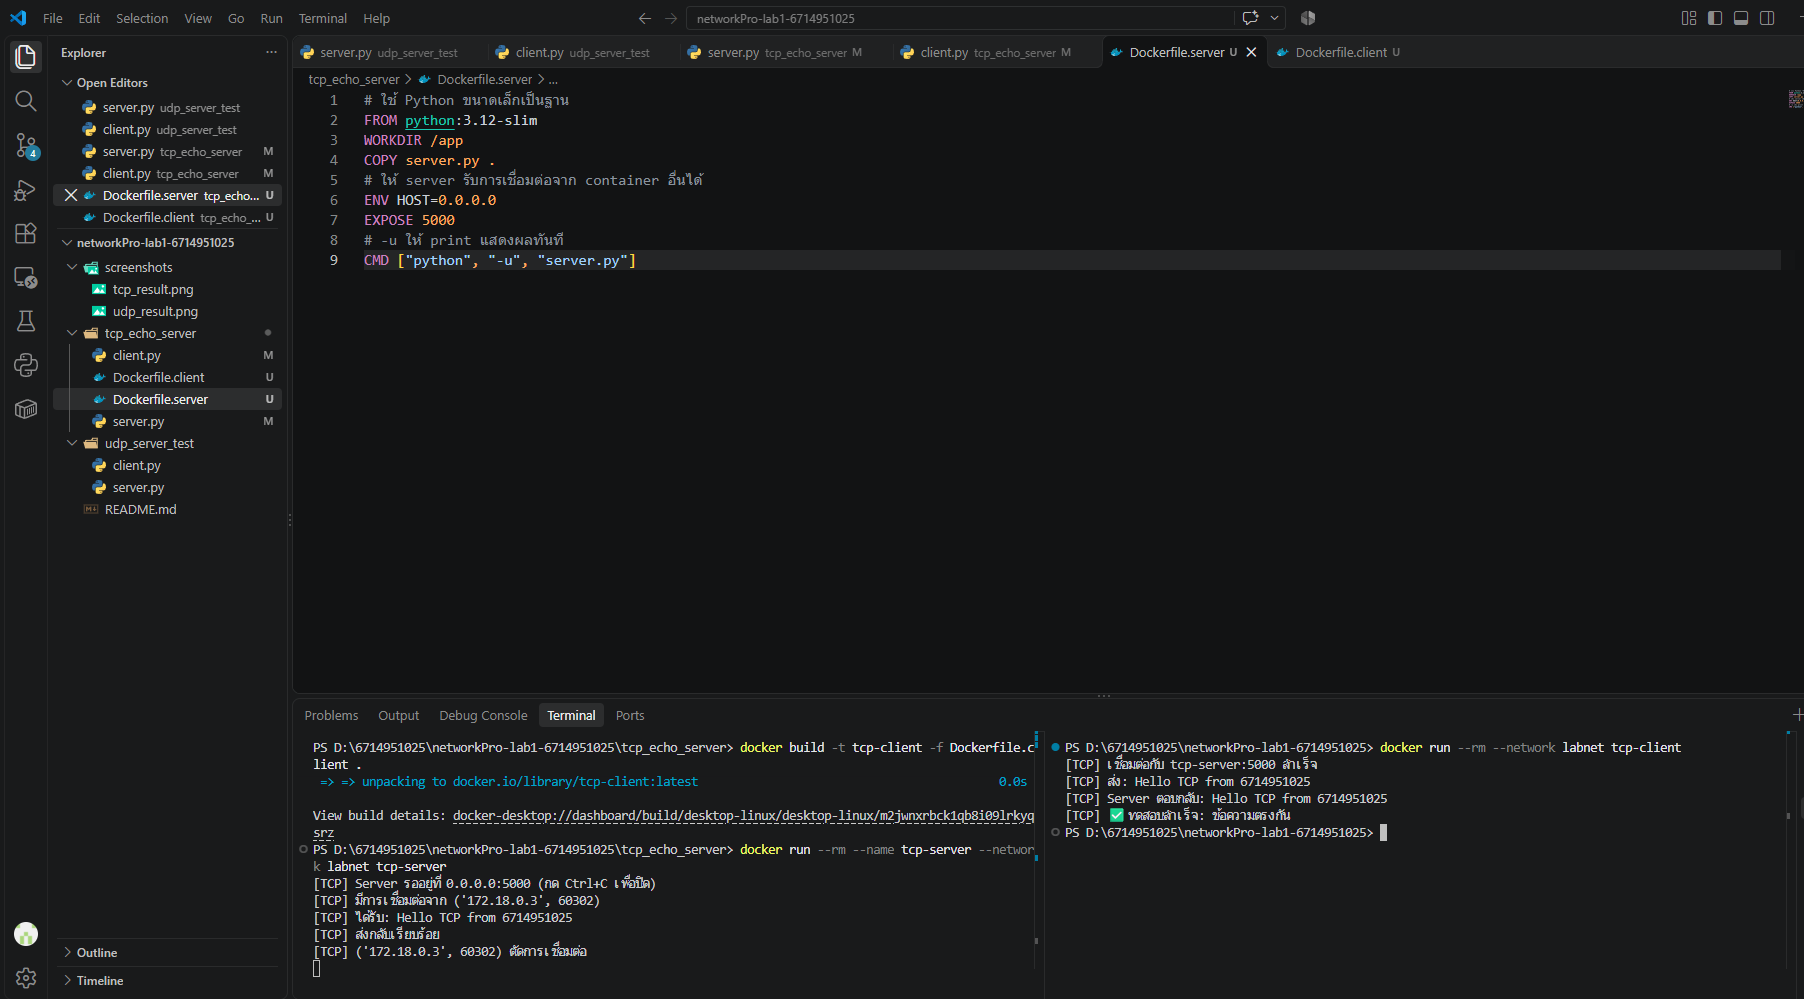
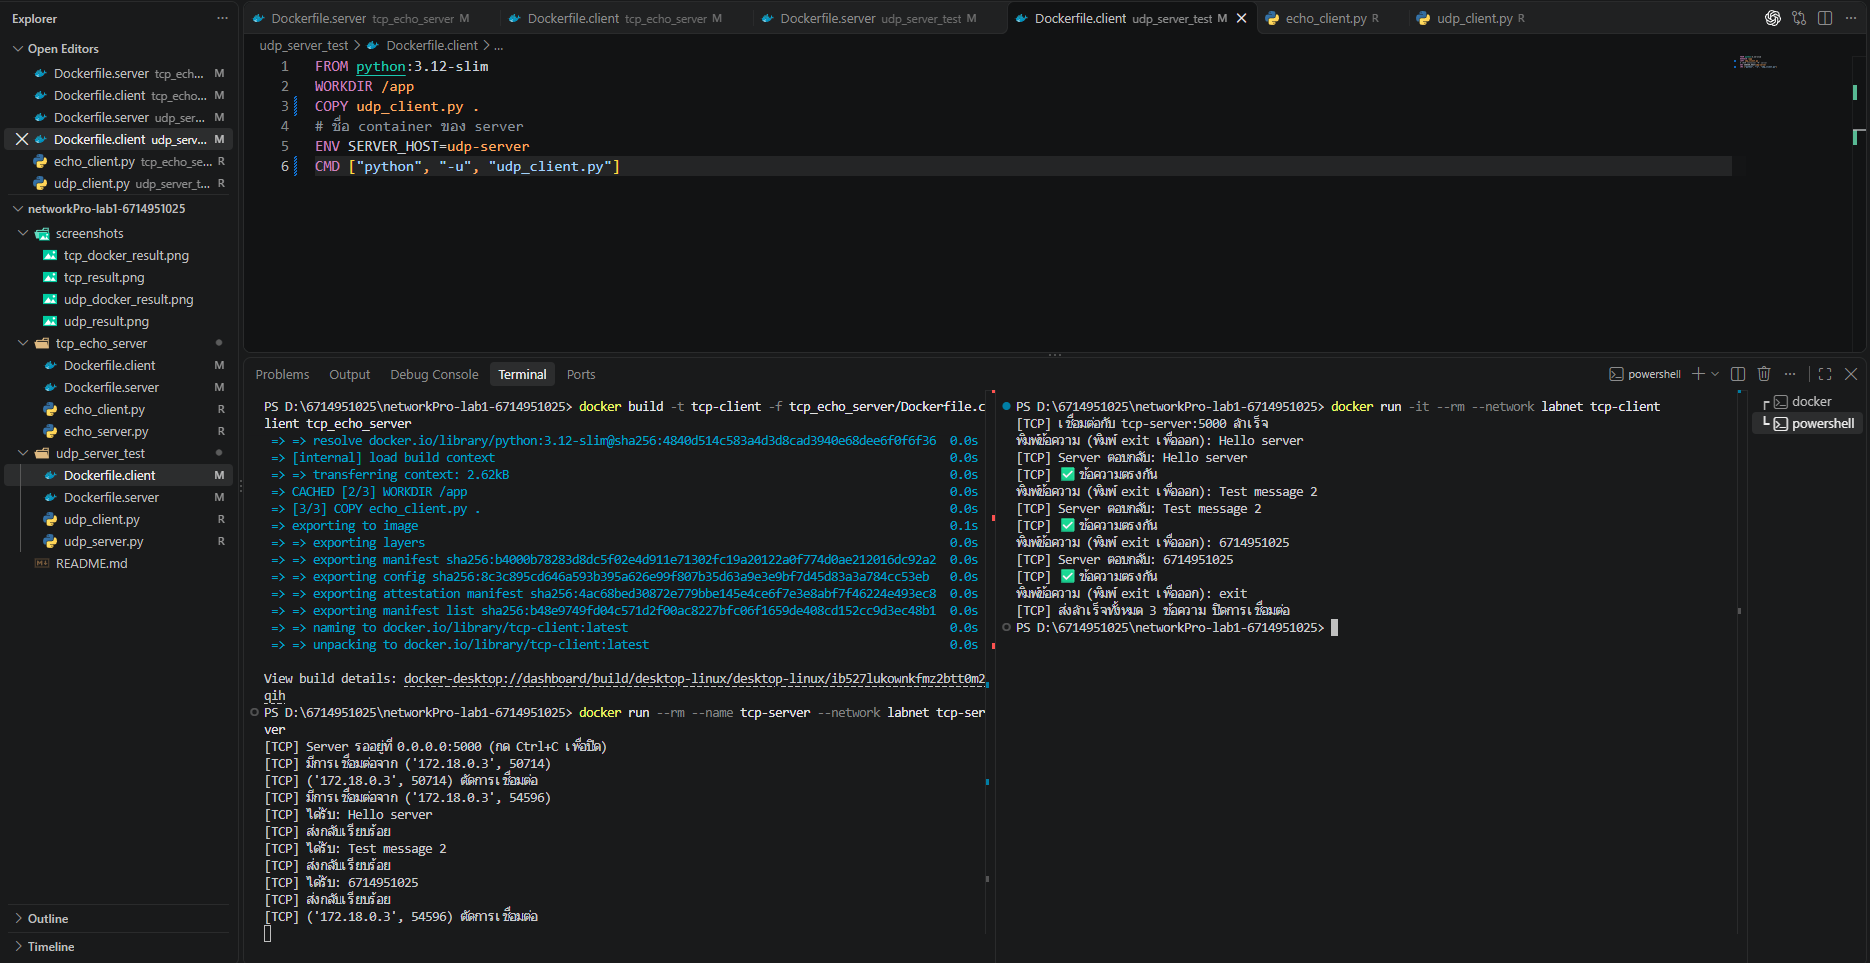
Align with lab manual: rename files, interactive clients, add .gitignore, update README

diff --git a/tcp_echo_server/echo_client.py b/tcp_echo_server/echo_client.py
@@ -1,0 +1,47 @@
+# tcp_echo_server/echo_client.py
+# TCP Client: พิมพ์ข้อความส่งไปหา server ได้หลายครั้ง พิมพ์ exit เพื่อออก
+
+import os
+import socket
+
+# อ่านชื่อ server จาก Docker (ENV SERVER_HOST) ถ้าไม่มีใช้ localhost
+HOST = os.environ.get("SERVER_HOST", "127.0.0.1")
+PORT = 5000  # ต้องตรงกับพอร์ตของ server
+
+def main():
+    # สร้าง socket แบบ TCP (SOCK_STREAM)
+    with socket.socket(socket.AF_INET, socket.SOCK_STREAM) as s:
+        s.settimeout(5)          # รอ server ตอบได้สูงสุด 5 วินาที
+        s.connect((HOST, PORT))  # เชื่อมต่อไปที่ server ครั้งเดียว
+        print(f"[TCP] เชื่อมต่อกับ {HOST}:{PORT} สำเร็จ")
+
+        count = 0  # นับจำนวนข้อความที่ส่งสำเร็จ
+        while True:
+            msg = input("พิมพ์ข้อความ (พิมพ์ exit เพื่อออก): ")
+            if msg.lower() == "exit":
+                break
+            if not msg:          # ข้ามถ้ากด Enter เปล่าๆ
+                continue
+
+            s.sendall(msg.encode())  # ส่งข้อความ
+            reply = s.recv(1024)     # รอรับข้อความที่ส่งกลับ
+            print(f"[TCP] Server ตอบกลับ: {reply.decode()}")
+
+            # เช็คว่าข้อความที่ได้กลับมาตรงกับที่ส่งไปไหม
+            if reply.decode() == msg:
+                count += 1
+                print("[TCP] ✅ ข้อความตรงกัน")
+            else:
+                print("[TCP] ❌ ข้อความไม่ตรงกัน")
+
+        print(f"[TCP] ส่งสำเร็จทั้งหมด {count} ข้อความ ปิดการเชื่อมต่อ")
+
+if __name__ == "__main__":
+    try:
+        main()
+    except ConnectionRefusedError:
+        print("[TCP] ❌ เชื่อมต่อไม่ได้: ยังไม่ได้เปิด server")
+    except socket.timeout:
+        print("[TCP] ❌ หมดเวลารอ server ตอบกลับ")
+    except (KeyboardInterrupt, EOFError):
+        print("\n[TCP] ปิด client แล้ว")

diff --git a/udp_server_test/udp_client.py b/udp_server_test/udp_client.py
@@ -1,0 +1,47 @@
+# udp_server_test/udp_client.py
+# UDP Client: พิมพ์ข้อความส่งไปหา server ได้หลายครั้ง พิมพ์ exit เพื่อออก
+
+import os
+import socket
+
+# อ่านชื่อ server จาก Docker (ENV SERVER_HOST) ถ้าไม่มีใช้ localhost
+HOST = os.environ.get("SERVER_HOST", "127.0.0.1")
+PORT = 5001  # ต้องตรงกับพอร์ตของ server
+
+def main():
+    # สร้าง socket แบบ UDP (SOCK_DGRAM) ไม่ต้อง connect
+    with socket.socket(socket.AF_INET, socket.SOCK_DGRAM) as s:
+        s.settimeout(5)  # UDP ไม่รับประกันการส่ง จึงต้องตั้งเวลารอ
+        print(f"[UDP] พร้อมส่งข้อความไปที่ {HOST}:{PORT}")
+
+        count = 0  # นับจำนวนข้อความที่ส่งสำเร็จ
+        while True:
+            msg = input("พิมพ์ข้อความ (พิมพ์ exit เพื่อออก): ")
+            if msg.lower() == "exit":
+                break
+            if not msg:  # ข้ามถ้ากด Enter เปล่าๆ
+                continue
+
+            s.sendto(msg.encode(), (HOST, PORT))  # ส่งข้อความ
+            try:
+                reply, addr = s.recvfrom(1024)    # รอรับคำตอบ
+            except socket.timeout:
+                print("[UDP] ❌ หมดเวลารอ: ข้อความนี้อาจหาย")
+                continue
+
+            print(f"[UDP] Server {addr} ตอบกลับ: {reply.decode()}")
+            if reply.decode() == msg:
+                count += 1
+                print("[UDP] ✅ ข้อความตรงกัน")
+            else:
+                print("[UDP] ❌ ข้อความไม่ตรงกัน")
+
+        print(f"[UDP] ส่งสำเร็จทั้งหมด {count} ข้อความ")
+
+if __name__ == "__main__":
+    try:
+        main()
+    except ConnectionResetError:
+        print("[UDP] ❌ ไม่มี server รออยู่ที่พอร์ตนี้")
+    except (KeyboardInterrupt, EOFError):
+        print("\n[UDP] ปิด client แล้ว")

diff --git a/README.md b/README.md
@@ -1,123 +1,113 @@
-# networkPro-lab1-6714951025
+# รายงานผลการทดลอง: Network Programming Lab 1
 
-Lab 1 – Network Programming: TCP Echo Server และ UDP Server Test ด้วย Python Socket (รองรับการรันด้วย Docker)
-
-- **ผู้จัดทำ:** Nathakorn
+### ข้อมูลผู้จัดทำ
+- **ชื่อ-นามสกุล:** นายณฐกร รัมมะมนต์
 - **รหัสนักศึกษา:** 6714951025
 
-## โครงสร้าง Repository
+---
 
-```
+### 🖥 ผลการทดสอบการส่งข้อความ
+
+#### รูปที่ 1: ภาพหน้าจอ Terminal ตอนทดสอบส่งข้อความระหว่าง Client-Server ของ TCP Echo
+Client (container `tcp-client`) ส่งข้อความ 3 ข้อความไปยัง Server (container `tcp-server`) ผ่าน Docker network `labnet` ได้รับข้อความเดิมกลับมาครบทุกข้อความ
+
+![TCP Echo Result](screenshots/tcp_docker_result.png)
+
+#### รูปที่ 2: ภาพหน้าจอ Terminal ตอนทดสอบส่งข้อความระหว่าง Client-Server ของ UDP Echo
+Client (container `udp-client`) ส่งข้อความ 3 ข้อความไปยัง Server (container `udp-server`) ผ่าน UDP โดย Server แสดงข้อความที่ได้รับทุกข้อความและส่งกลับครบ
+
+![UDP Echo Result](screenshots/udp_docker_result.png)
+
+#### สรุปผล
+| การทดสอบ | จำนวนข้อความที่ส่ง | ผลลัพธ์ |
+|---|---|---|
+| TCP Echo | 3 | ✅ ได้รับกลับครบ ตรงกันทุกข้อความ |
+| UDP Echo | 3 | ✅ ได้รับกลับครบ ตรงกันทุกข้อความ |
+
+---
+
+### 📂 โครงสร้าง Repository
+
+```text
 networkPro-lab1-6714951025/
-├── tcp_echo_server/
-│   ├── server.py           # TCP Echo Server
-│   ├── client.py           # TCP Client
-│   ├── Dockerfile.server   # Docker image ของ TCP server
-│   └── Dockerfile.client   # Docker image ของ TCP client
-├── udp_server_test/
-│   ├── server.py           # UDP Server
-│   ├── client.py           # UDP Client
-│   ├── Dockerfile.server   # Docker image ของ UDP server
-│   └── Dockerfile.client   # Docker image ของ UDP client
-├── screenshots/            # ภาพผลการทดสอบ
-└── README.md
+├── README.md
+├── .gitignore
+├── screenshots/
+│   ├── tcp_docker_result.png
+│   └── udp_docker_result.png
+├── tcp_echo_server/          # งานส่วนที่ 1 (TCP)
+│   ├── echo_server.py
+│   ├── echo_client.py
+│   ├── Dockerfile.server
+│   └── Dockerfile.client
+└── udp_server_test/          # แบบฝึกหัดที่ 1 (UDP)
+    ├── udp_server.py
+    ├── udp_client.py
+    ├── Dockerfile.server
+    └── Dockerfile.client
 ```
 
-## วิธีดาวน์โหลดและรัน
+---
 
-**ความต้องการ:** Python 3 (ไม่ต้องติดตั้ง library เพิ่ม) และ Docker Desktop (ถ้าต้องการรันแบบ Docker)
+### 🚀 วิธีดาวน์โหลดและรัน
 
 ```bash
 git clone https://github.com/6714951025/networkPro-lab1-6714951025.git
 cd networkPro-lab1-6714951025
 ```
 
-### แบบที่ 1: รันด้วย Python โดยตรง
-
-**ทดสอบ TCP** (เปิด Terminal 2 หน้าต่าง)
-```bash
-# หน้าต่างที่ 1: เปิด server ก่อน
-python tcp_echo_server/server.py
-
-# หน้าต่างที่ 2: รัน client
-python tcp_echo_server/client.py
-```
-
-**ทดสอบ UDP** (เปิด Terminal 2 หน้าต่าง)
-```bash
-# หน้าต่างที่ 1: เปิด server ก่อน
-python udp_server_test/server.py
-
-# หน้าต่างที่ 2: รัน client
-python udp_server_test/client.py
-```
-
-### แบบที่ 2: รันด้วย Docker
-
-รันจาก root ของ repo และต้องเปิด Docker Desktop ไว้ก่อน
+#### แบบที่ 1: รันด้วย Docker (ต้องเปิด Docker Desktop ก่อน)
 
 ```bash
-# สร้างเครือข่ายให้ container คุยกันได้ (ทำครั้งเดียว)
+# สร้าง Docker network ให้ container คุยกันได้ (ทำครั้งเดียว)
 docker network create labnet
 ```
 
-**ทดสอบ TCP**
+**TCP Echo**
 ```bash
 docker build -t tcp-server -f tcp_echo_server/Dockerfile.server tcp_echo_server
 docker build -t tcp-client -f tcp_echo_server/Dockerfile.client tcp_echo_server
 
-# หน้าต่างที่ 1: เปิด server
+# Terminal ที่ 1: เปิด server
 docker run --rm --name tcp-server --network labnet tcp-server
 
-# หน้าต่างที่ 2: รัน client แล้วปิด server
-docker run --rm --network labnet tcp-client
+# Terminal ที่ 2: เปิด client (พิมพ์ข้อความ แล้วพิมพ์ exit เพื่อออก)
+docker run -it --rm --network labnet tcp-client
+
+# ปิด server
 docker stop tcp-server
 ```
 
-**ทดสอบ UDP**
+**UDP Echo**
 ```bash
 docker build -t udp-server -f udp_server_test/Dockerfile.server udp_server_test
 docker build -t udp-client -f udp_server_test/Dockerfile.client udp_server_test
 
-# หน้าต่างที่ 1: เปิด server
+# Terminal ที่ 1: เปิด server
 docker run --rm --name udp-server --network labnet udp-server
 
-# หน้าต่างที่ 2: รัน client แล้วปิด server
-docker run --rm --network labnet udp-client
+# Terminal ที่ 2: เปิด client (พิมพ์ข้อความ แล้วพิมพ์ exit เพื่อออก)
+docker run -it --rm --network labnet udp-client
+
+# ปิด server
 docker stop udp-server
 ```
 
-## ผลการทดสอบ
+#### แบบที่ 2: รันด้วย Python โดยตรง (ไม่ใช้ Docker)
 
-### TCP Echo Server (พอร์ต 5000)
-Client ส่งข้อความ `Hello TCP from 6714951025` ไปที่ server และได้รับข้อความเดิมกลับมาครบถ้วน
+```bash
+# TCP
+python tcp_echo_server/echo_server.py    # Terminal ที่ 1
+python tcp_echo_server/echo_client.py    # Terminal ที่ 2
 
-![TCP Result](screenshots/tcp_result.png)
+# UDP
+python udp_server_test/udp_server.py     # Terminal ที่ 1
+python udp_server_test/udp_client.py     # Terminal ที่ 2
+```
 
-### UDP Server Test (พอร์ต 5001)
-Client ส่งข้อความ `Hello UDP from 6714951025` ไปที่ server และได้รับข้อความเดิมกลับมาครบถ้วน
+---
 
-![UDP Result](screenshots/udp_result.png)
-
-### ทดสอบบน Docker
-Server และ Client รันแยกกันคนละ container และสื่อสารกันผ่านเครือข่าย `labnet` (server เห็นการเชื่อมต่อจาก IP ของ container client เช่น `172.18.0.3`)
-
-**TCP บน Docker**
-
-![TCP Docker Result](screenshots/tcp_docker_result.png)
-
-**UDP บน Docker**
-
-![UDP Docker Result](screenshots/udp_docker_result.png)
-
-### สรุปผล
-
-| การทดสอบ | Python โดยตรง | Docker |
-|---|---|---|
-| TCP Echo | ✅ ผ่าน | ✅ ผ่าน |
-| UDP | ✅ ผ่าน | ✅ ผ่าน |
-
-## การเลือกใช้เทคนิคและเครื่องมือ
+### 🛠 การเลือกใช้เทคนิคและเครื่องมือ
 
 | หัวข้อ | TCP | UDP |
 |---|---|---|
@@ -128,19 +118,20 @@ Server และ Client รันแยกกันคนละ container แล
 | เหมาะกับ | งานที่ข้อมูลต้องครบ เช่น เว็บ, ไฟล์ | งานที่ต้องการความเร็ว เช่น เกม, สตรีมมิ่ง |
 
 **เหตุผลที่เลือก:**
-- **Python** มีโมดูล `socket` ในตัว ไม่ต้องติดตั้งเพิ่ม โค้ดสั้นและอ่านง่าย
+- **Python** มีโมดูล `socket` ในตัว ไม่ต้องติดตั้ง library เพิ่ม โค้ดสั้นและอ่านง่าย
 - **TCP** ใช้กับ Echo Server เพราะต้องการให้ข้อความกลับมาครบและถูกต้อง
-- **UDP** ใช้ทดสอบการส่งแบบไม่ต้องเชื่อมต่อ จึงตั้ง `settimeout(5)` ไว้กันโปรแกรมค้างถ้าแพ็กเก็ตหาย
-- ใช้ `127.0.0.1` (localhost) เพื่อทดสอบบนเครื่องเดียว และแยกพอร์ต TCP (5000) กับ UDP (5001) ไม่ให้ชนกัน
-- ฝั่ง client มีการตรวจว่าข้อความที่ได้กลับมาตรงกับที่ส่งไป เพื่อยืนยันผลการทดสอบ
-- **Docker** ใช้แยก server และ client ไว้คนละ container เพื่อจำลองการสื่อสารข้ามเครื่องจริง และให้รันได้เหมือนกันทุกเครื่อง
-- โค้ดอ่าน IP จาก environment variable (`HOST`, `SERVER_HOST`) จึงรันได้ทั้งบนเครื่องปกติและใน Docker โดยไม่ต้องแก้โค้ด
-- ใน Docker server ใช้ `HOST=0.0.0.0` เพื่อรับการเชื่อมต่อจาก container อื่น และ client เรียก server ด้วยชื่อ container (`tcp-server`, `udp-server`)
+- **UDP** ไม่มีการเชื่อมต่อ จึงตั้ง `settimeout(5)` ไว้ ถ้าข้อความหายโปรแกรมจะแจ้งเตือนและส่งข้อความถัดไปได้ ไม่ค้าง
+- **Docker** แยก server และ client ไว้คนละ container เพื่อจำลองการสื่อสารข้ามเครื่องจริง และรันได้เหมือนกันทุกเครื่อง
+- **Docker network** (`labnet`) ให้ client เรียก server ด้วยชื่อ container (`tcp-server`, `udp-server`) ผ่าน DNS ภายในของ Docker
+- โค้ดอ่าน IP จาก environment variable (`HOST`, `SERVER_HOST`) จึงรันได้ทั้งใน Docker และบนเครื่องปกติ (`127.0.0.1`) โดยไม่ต้องแก้โค้ด
+- Client ตรวจว่าข้อความที่ได้กลับมาตรงกับที่ส่งไป และสรุปจำนวนข้อความที่สำเร็จ เพื่อยืนยันผลการทดสอบ
 
-## แหล่งอ้างอิง
+---
 
-1. Python Software Foundation. *socket — Low-level networking interface.* https://docs.python.org/3/library/socket.html
-2. Python Software Foundation. *Socket Programming HOWTO.* https://docs.python.org/3/howto/sockets.html
-3. Git Documentation. *git clone.* https://git-scm.com/docs/git-clone
+### 📚 แหล่งอ้างอิง
+1. คู่มือปฏิบัติการ Python Network Chapter 1 รายวิชา Network Programming
+2. Python Software Foundation. *socket — Low-level networking interface.* https://docs.python.org/3/library/socket.html
+3. Python Software Foundation. *Socket Programming HOWTO.* https://docs.python.org/3/howto/sockets.html
 4. Docker Documentation. *Dockerfile reference.* https://docs.docker.com/reference/dockerfile/
 5. Docker Documentation. *Networking overview.* https://docs.docker.com/engine/network/
+6. Git Documentation. *git clone.* https://git-scm.com/docs/git-clone
